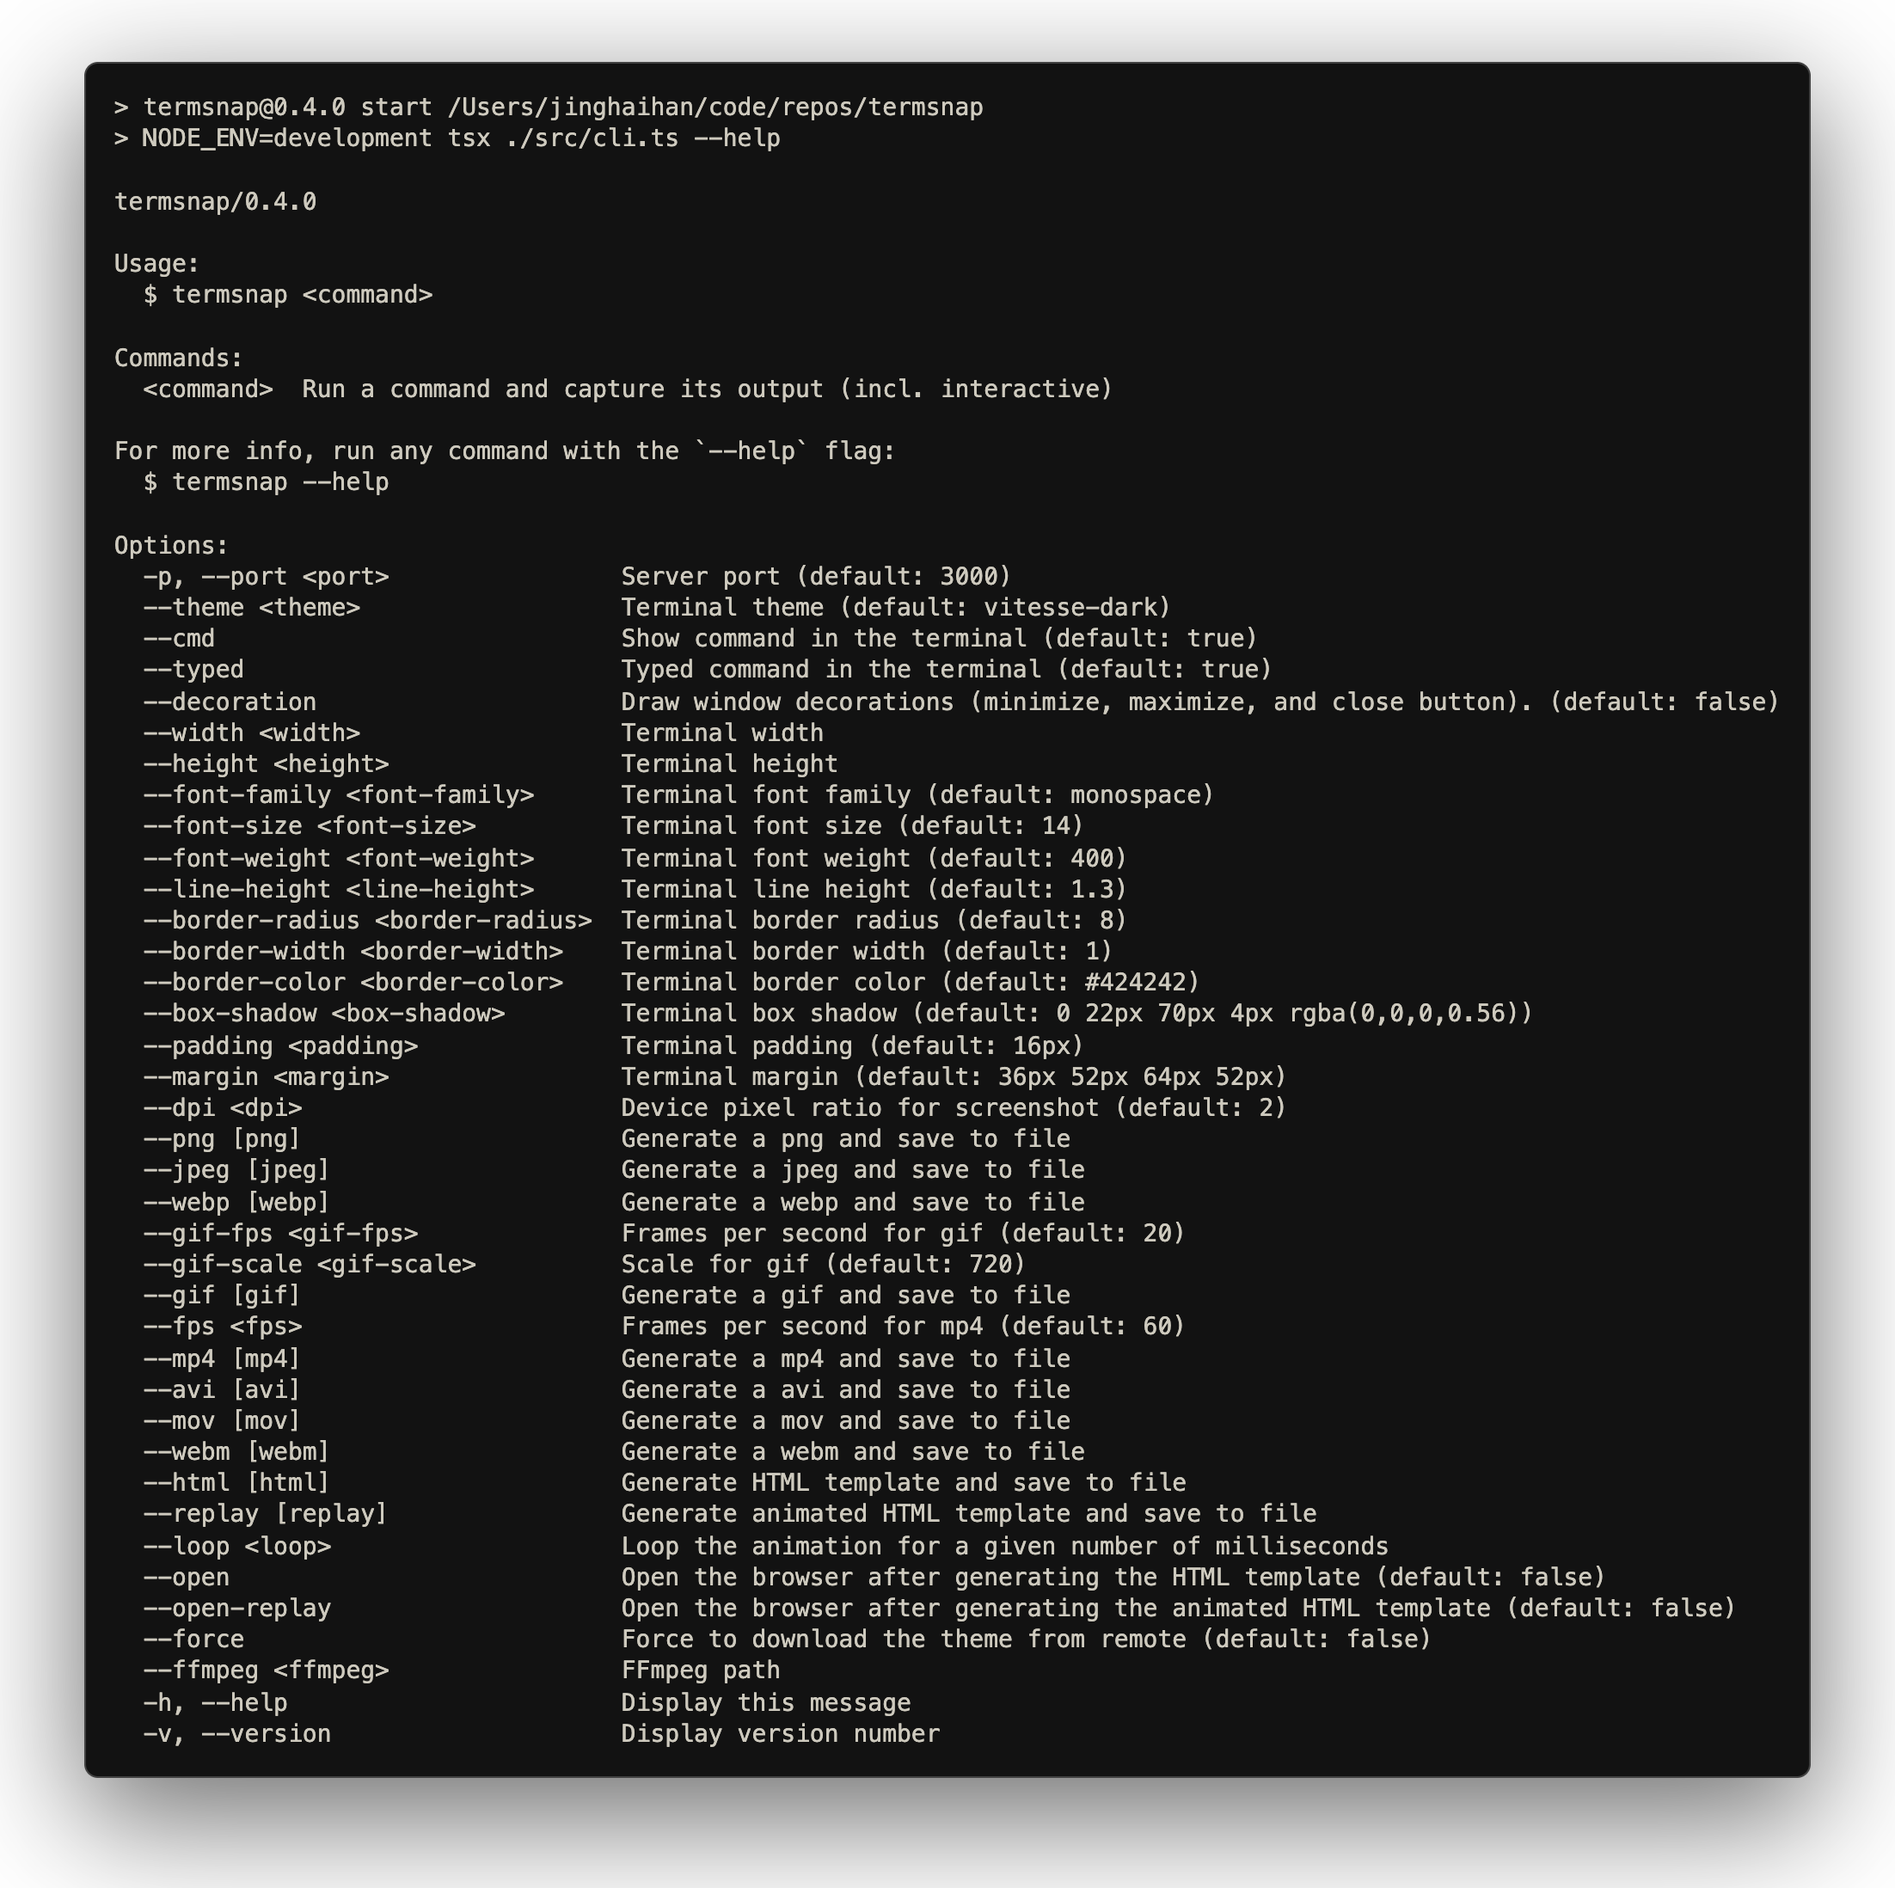
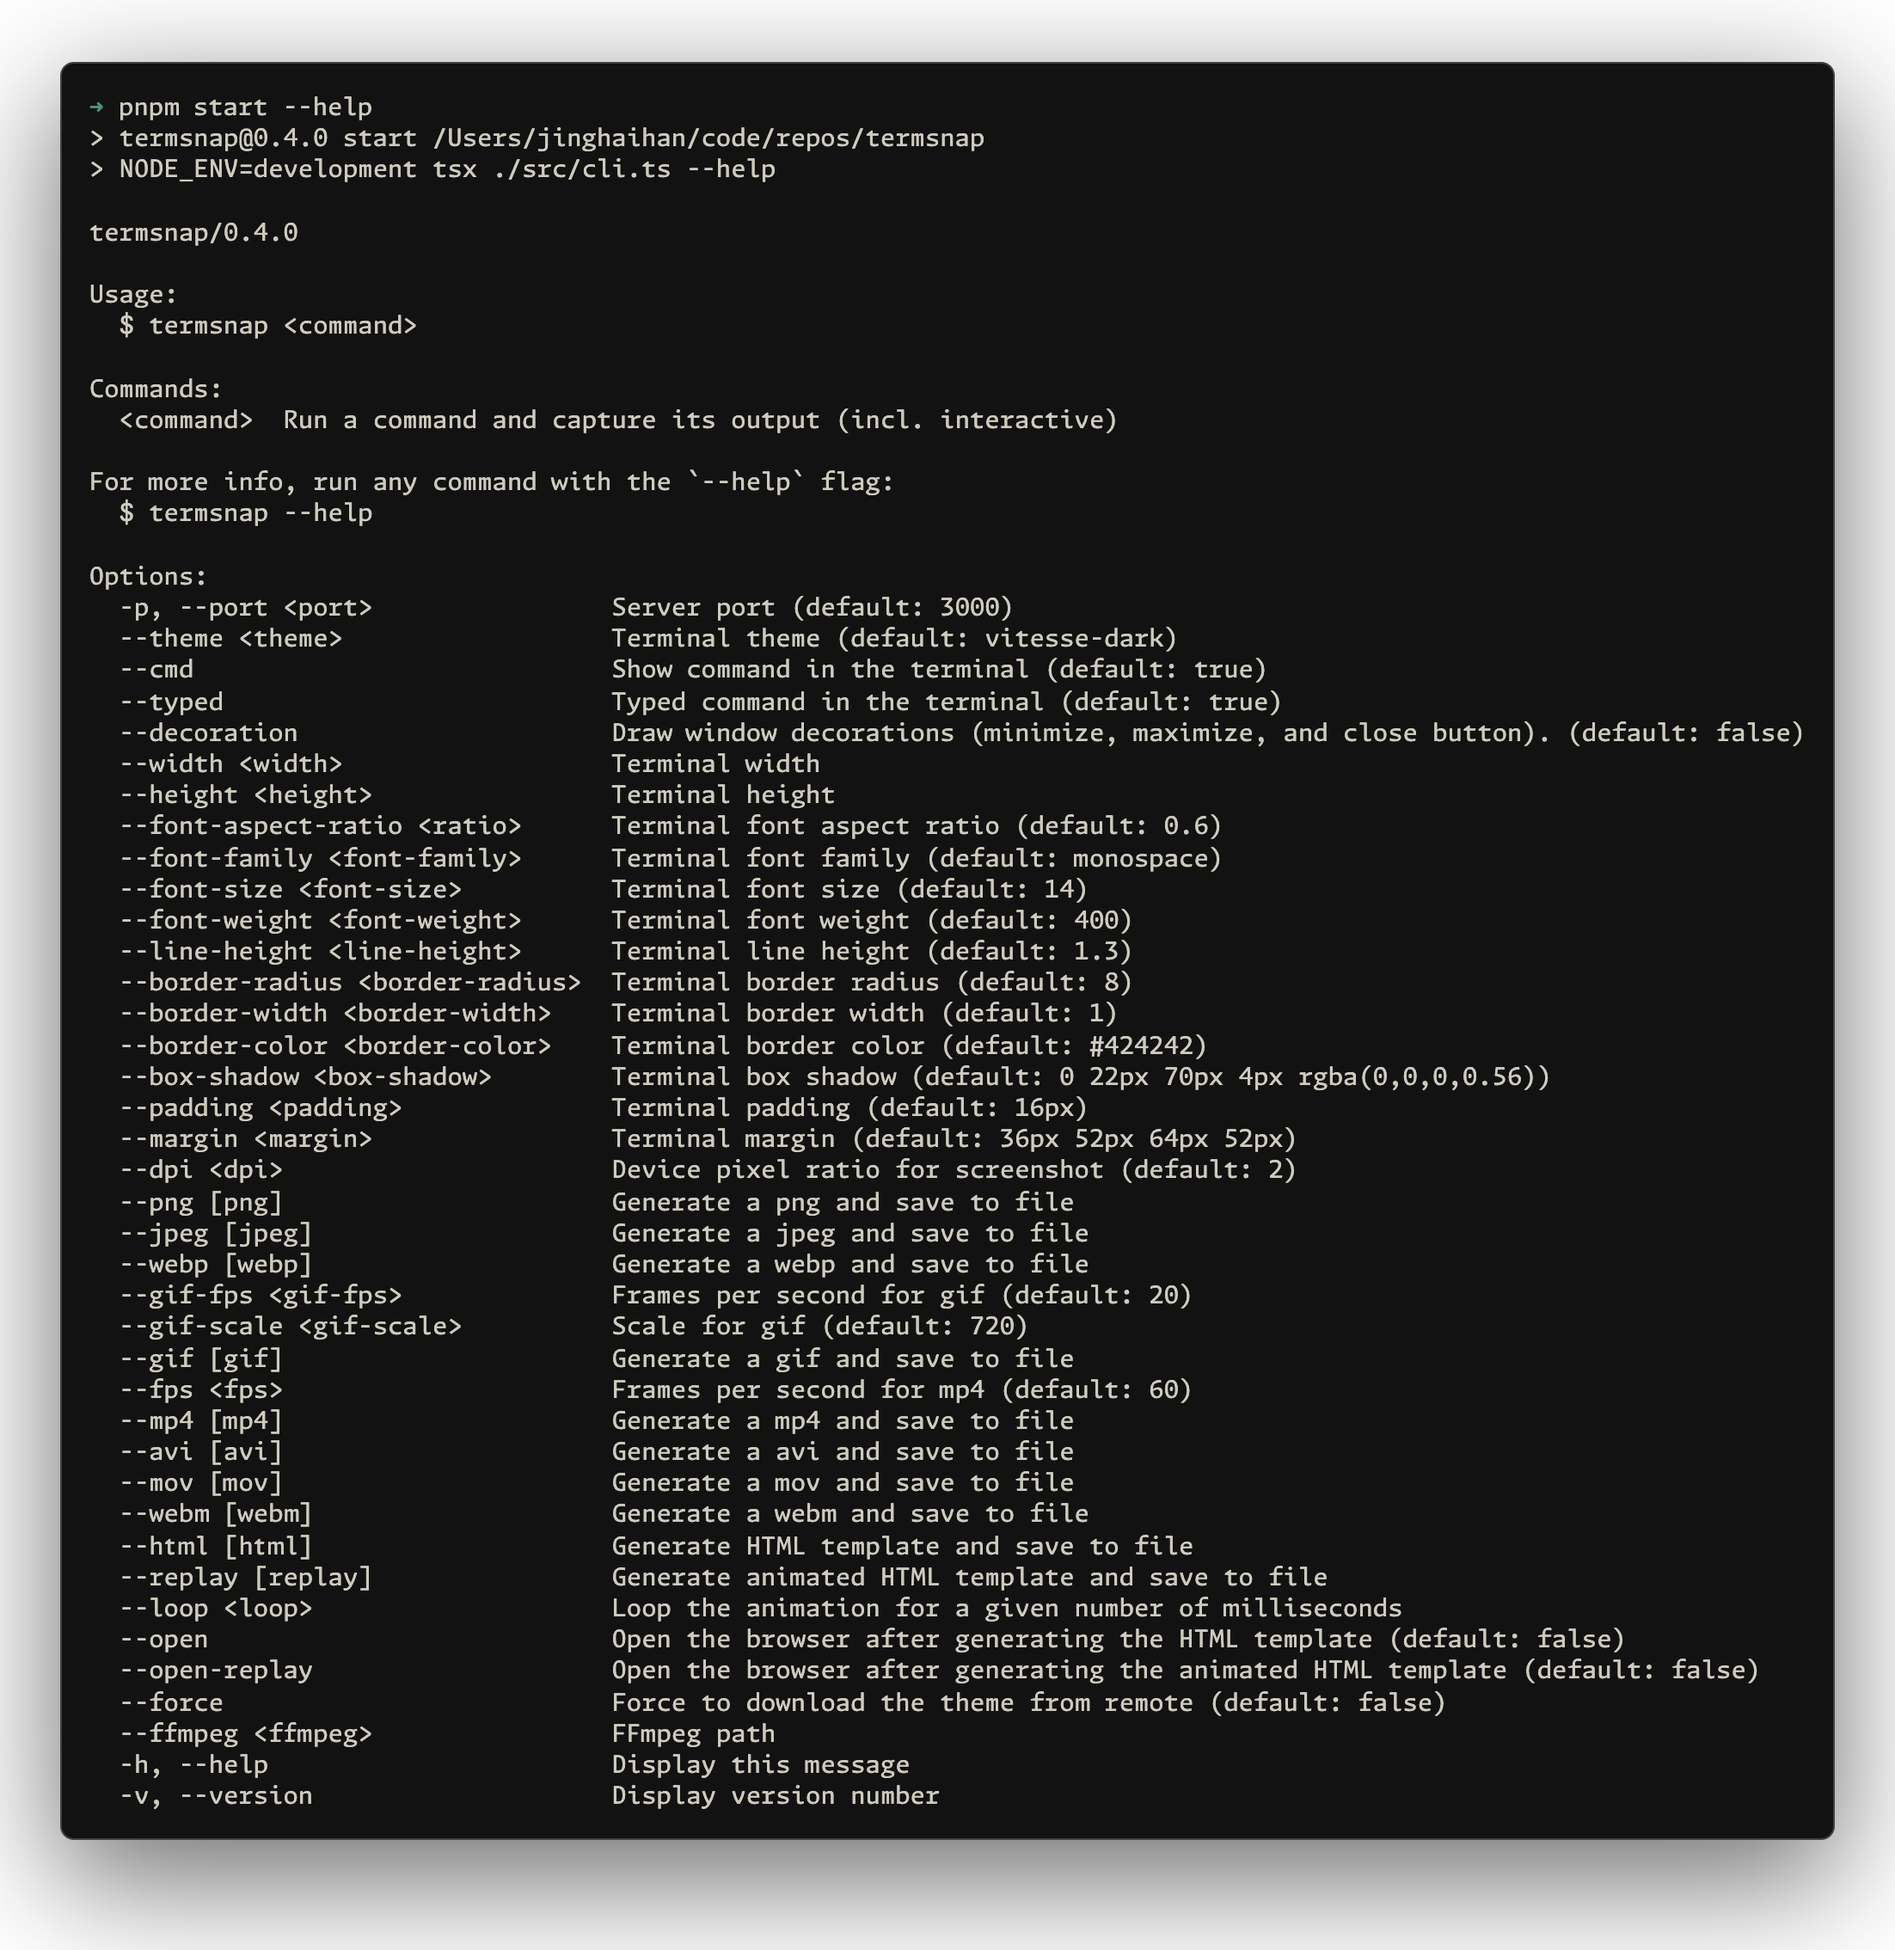
feat: add `--font-aspect-ratio` option

Changed region(s): [[0.0309, 0.031, 0.9256, 0.9599], [0.833, 0.031, 0.9873, 0.9599], [0.4936, 0.1858, 0.5862, 0.2168]]

diff --git a/src/types/core.ts b/src/types/core.ts
@@ -113,6 +113,10 @@ export interface AppearanceOptions extends FontConfig, BorderConfig, Pick<ThemeC
    */
   width?: number
   /**
+   * Terminal font aspect ratio
+   */
+  fontAspectRatio?: number
+  /**
    * Show command in the terminal
    */
   cmd?: boolean
@@ -141,7 +145,7 @@ export interface TypedOptions {
   pauseAfter?: number
 }
 
-export interface Options extends CommonOptions, ThemeConfig, Pick<AppearanceOptions, 'height' | 'width' | 'decoration' | 'cmd' | 'typed'> {
+export interface Options extends CommonOptions, ThemeConfig, Pick<AppearanceOptions, 'height' | 'width' | 'fontAspectRatio' | 'decoration' | 'cmd' | 'typed'> {
   typedOptions?: TypedOptions
 }
 

diff --git a/src/cli.ts b/src/cli.ts
@@ -25,6 +25,7 @@ try {
     .option('--decoration', 'Draw window decorations (minimize, maximize, and close button).', { default: false })
     .option('--width <width>', 'Terminal width')
     .option('--height <height>', 'Terminal height')
+    .option('--font-aspect-ratio <ratio>', 'Terminal font aspect ratio', { default: 0.6 })
     .option('--font-family <font-family>', 'Terminal font family', { default: 'monospace' })
     .option('--font-size <font-size>', 'Terminal font size', { default: 14 })
     .option('--font-weight <font-weight>', 'Terminal font weight', { default: 400 })

diff --git a/src/config.ts b/src/config.ts
@@ -88,6 +88,9 @@ export async function resolveConfig(command: string, options: Partial<CommandOpt
   merged.port = await getPort({ port: portNumbers(options.port, options.port + 100) })
   merged.typedOptions = { ...DEFAULT_TYPED_OPTIONS, ...merged.typedOptions }
 
+  // character width (approximate for monospace fonts)
+  merged.fontAspectRatio = merged.fontAspectRatio ? Number(merged.fontAspectRatio) : 0.6
+
   // font config
   themeConfig.font.fontFamily = merged.fontFamily || themeConfig.font.fontFamily
   themeConfig.font.fontSize = merged.fontSize || themeConfig.font.fontSize

diff --git a/src/utils/dimensions.ts b/src/utils/dimensions.ts
@@ -11,8 +11,8 @@ export function calculateContainerDimensions(rows: number, cols: number, options
   }
 
   const { fontSize, lineHeight } = options.font
-  // Calculate character width (approximate for monospace fonts)
-  const charWidth = fontSize * 0.60
+
+  const charWidth = fontSize * options.fontAspectRatio
   const lineHeightPx = fontSize * lineHeight
 
   const padding = parseSpacing(options.padding)

diff --git a/README.md b/README.md
@@ -142,6 +142,7 @@ export default defineConfig({
 - `typed` - Typed command in the terminal
 
 ### Font Configuration
+- `fontAspectRatio` - Terminal font aspect ratio (default: 0.6)
 - `fontFamily` - Terminal font family
 - `fontSize` - Terminal font size
 - `fontWeight` - Terminal font weight
